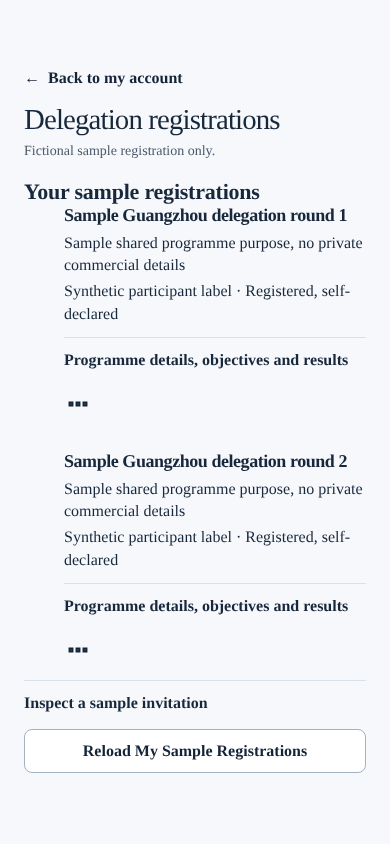
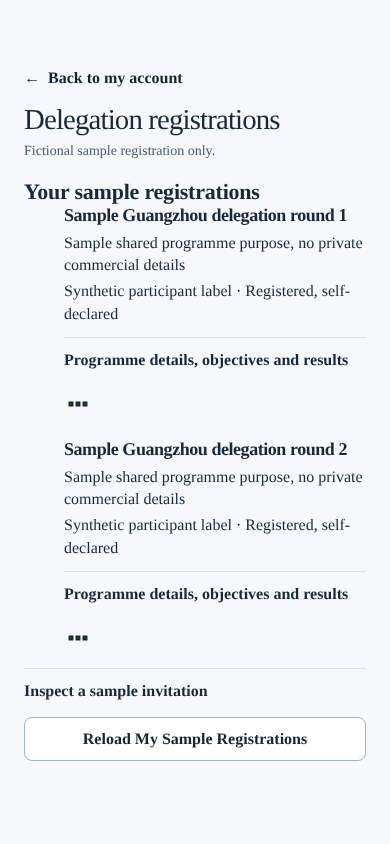
AUDIT-A3d part 1: rows 16 px apart (12 on a phone) so no page is longer than before
The 24 px between rows made the phone page with two registrations 11 px longer. Rows are now 16 px apart from 768 px up and
12 px on a phone; the spec pins every content height at or under its value on main.

Claude-Session: https://claude.ai/code/session_0187kU9rMA3hTL4LqgymzYTt

Changed region(s): [[0.0615, 0.5237, 0.9231, 0.9242], [0.9231, 0.8934, 0.9538, 0.9242], [0.0615, 0.8934, 0.0923, 0.9242]]

diff --git a/tests/ux/audit-a3d-registrations.spec.ts b/tests/ux/audit-a3d-registrations.spec.ts
@@ -155,7 +155,7 @@ for (const width of [390, 768, 1440]) {
       });
     });
 
-    test('rows are 12 px inside and 24 px apart, the row title is 18 px and the section title follows the scale', async ({
+    test('rows are 12 px inside and 16 px apart (12 on a phone), the row title is 18 px and the section title follows the scale', async ({
       page,
     }) => {
       await open(page, width, { rows: 2 });
@@ -177,7 +177,7 @@ for (const width of [390, 768, 1440]) {
           sectionTitle: getComputedStyle(section).fontSize,
         };
       });
-      expect(sizes.between).toBe(24);
+      expect(sizes.between).toBe(width < 768 ? 12 : 16);
       expect(sizes.inside).toBe(12);
       expect(sizes.rowTitle).toBe('18px');
       expect(sizes.rowTitleWeight).toBe('600');
@@ -246,3 +246,25 @@ test('the section drawn on its own keeps the direct Withdraw button; only the fr
     page.getByRole('button', { name: 'Withdraw From Programme', exact: true }),
   ).toHaveCount(0);
 });
+
+// The owner's rule for the audit: no page longer than before at any width. The heights are the content (main) of the same
+// fixture on origin/main (76066ca), details closed, measured in the same Chromium; one pixel of room for rounding.
+const before: Record<number, [number, number]> = {
+  390: [582.2, 814.0],
+  768: [550.5, 745.4],
+  1440: [561.5, 756.4],
+};
+for (const width of [390, 768, 1440])
+  for (const rows of [1, 2])
+    test(`${width} px, ${rows} registration${rows === 1 ? '' : 's'}: the page is no longer than before`, async ({
+      page,
+    }) => {
+      await open(page, width, { rows });
+      await page.evaluate(() =>
+        document.querySelectorAll('details').forEach((d) => (d.open = false)),
+      );
+      const height = await page.evaluate(
+        () => document.querySelector('main')!.getBoundingClientRect().height,
+      );
+      expect(height).toBeLessThanOrEqual(before[width]![rows - 1]! + 1);
+    });

diff --git a/apps/web/app/account/delegations/participant-account.css b/apps/web/app/account/delegations/participant-account.css
@@ -1,5 +1,5 @@
 /* Delegation registrations inside the page frame (UI/UX.v3, audit A3d). Tokens only.
-   Spacing: 12 px between the groups inside a row, 24 px between rows, the 16 px phone gutter comes from the page column.
+   Spacing: 12 px between the groups inside a row, 16 px between rows (12 px on a phone), the 16 px phone gutter comes from the page column.
    Type: row title 18 px (600), section title from the section-title token, the rest keeps the body and secondary
    sizes. Targets: 44 px on a phone. Every rule is scoped to `.ux-reg`, which only the framed page sets, so the section
    drawn on its own (fixtures, older specs) keeps its old look. */
@@ -12,9 +12,9 @@
   list-style: none;
   margin-block: 0;
 }
-/* 24 px between rows. Margins, not a grid gap, so the first title still sits at the top of the list. */
+/* 16 px between rows (24 px stays between sections). Margins, not a grid gap, so the first title still sits at the top of the list. */
 .ux-customer .account-compact section.delivery-view.ux-reg > ul.ux-reg-list > li + li {
-  margin-block-start: var(--space-6);
+  margin-block-start: var(--space-4);
 }
 .ux-customer .account-compact section.delivery-view.ux-reg > ul.ux-reg-list > li > h3 {
   font-size: var(--text-lg);
@@ -50,6 +50,10 @@
   }
 }
 @media (max-width: 47.99rem) {
+  /* On a phone the rows keep the 12 px they had, so the page is no longer than before. */
+  .ux-customer .account-compact section.delivery-view.ux-reg > ul.ux-reg-list > li + li {
+    margin-block-start: var(--space-3);
+  }
   .ux-reg :is(button.text-link, button.primary-link, summary) {
     min-height: 44px;
   }
